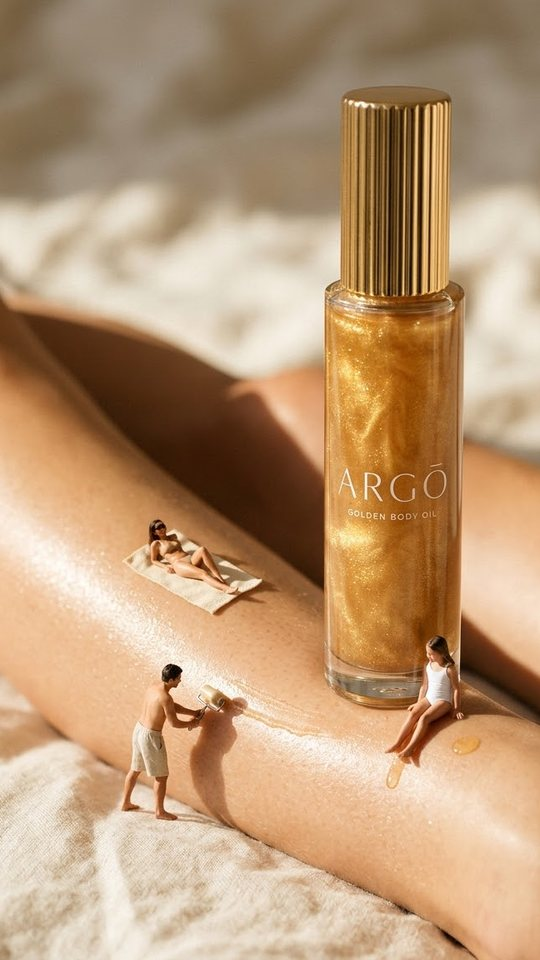
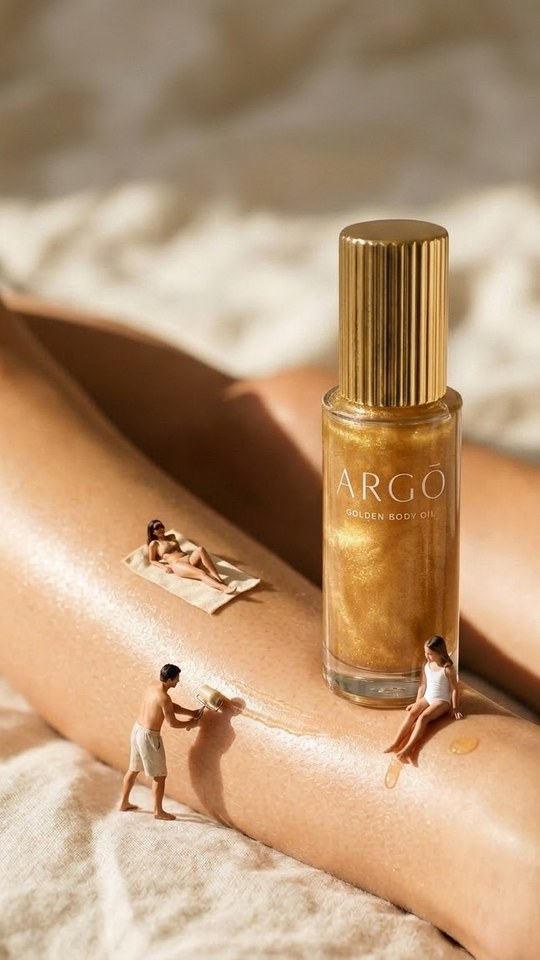
ARGŌ: shorter bottle key visual

diff --git a/index.html b/index.html
@@ -582,7 +582,7 @@ section.block.about{padding:64px 0 96px}
         <a class="cr" data-view data-video="assets/video/ltheanine.mp4" href="assets/video/ltheanine.mp4"><div class="cf"><video autoplay loop muted playsinline preload="metadata" poster="assets/img/ltheanine-poster.jpg" src="assets/video/ltheanine-loop.mp4" aria-label="L-Theanine drink spec ad"></video><span class="tg-k">Hook · Scene switch</span></div><b>L-Theanine drink</b><small>Spec ad, 9:16</small></a>
         <a class="cr" data-view data-video="assets/video/solene.mp4" href="assets/video/solene.mp4"><div class="cf"><video autoplay loop muted playsinline preload="metadata" poster="assets/img/solene-poster.jpg" src="assets/video/solene-loop.mp4" aria-label="SOLÈNE fig fragrance spec ad, AI-generated"></video><span class="tg-k">Spec ad · AI</span></div><b>SOLÈNE fragrance</b><small>Luxury spec ad, 16:9</small></a>
         <a class="cr" data-view data-video="assets/video/nur.mp4?v=2" href="assets/video/nur.mp4?v=2"><div class="cf"><video autoplay loop muted playsinline preload="metadata" poster="assets/img/nur-poster.jpg" src="assets/video/nur-loop.mp4?v=2" aria-label="NŪR barrier cream spec ad, AI-generated"></video><span class="tg-k">Spec ad · AI</span></div><b>NŪR barrier cream</b><small>De-influencing skincare spec ad</small></a>
-        <a class="cr" data-view href="work/argo/"><div class="cf"><img src="assets/img/argo-poster.jpg" width="540" height="960" loading="lazy" alt="ARGŌ golden body oil key visual: a tall gold shimmer oil bottle on a sun-kissed leg with tiny people using the skin as a golden beach"><span class="tg-k">Spec ad · AI</span></div><b>ARGŌ golden body oil</b><small>Miniature-world spec key visual</small></a>
+        <a class="cr" data-view href="work/argo/"><div class="cf"><img src="assets/img/argo-poster.jpg?v=2" width="540" height="960" loading="lazy" alt="ARGŌ golden body oil key visual: a tall gold shimmer oil bottle on a sun-kissed leg with tiny people using the skin as a golden beach"><span class="tg-k">Spec ad · AI</span></div><b>ARGŌ golden body oil</b><small>Miniature-world spec key visual</small></a>
         <a class="cr" data-view href="work/postroom/"><div class="cf"><video autoplay loop muted playsinline preload="metadata" poster="assets/img/postroom-poster.jpg" src="assets/video/postroom-loop.mp4" aria-label="AI promo for Postroom, the publishing tool she built"></video><span class="tg-k">Promo · My tool</span></div><b>Postroom promo</b><small>Ad for my own tool</small></a>
       </div>
       <div class="cr-nav"><button type="button" data-cr="-1" aria-label="Previous">&larr;</button><button type="button" data-cr="1" aria-label="Next">&rarr;</button></div>

diff --git a/work/argo/index.html b/work/argo/index.html
@@ -93,7 +93,7 @@ footer a{text-decoration:none;border-bottom:1px solid var(--gold);padding-bottom
     </section>
 
     <aside class="film">
-      <img src="../../assets/img/argo-web.jpg" width="696" height="864" alt="ARGŌ Golden Body Oil key visual: a tall slim gold shimmer oil bottle on a sun-kissed shin, with three tiny people using the skin as a golden beach">
+      <img src="../../assets/img/argo-web.jpg?v=2" width="696" height="864" alt="ARGŌ Golden Body Oil key visual: a tall slim gold shimmer oil bottle on a sun-kissed shin, with three tiny people using the skin as a golden beach">
       <div class="caption"><span>Key visual</span><span>4:5 · Gemini</span></div>
       <p class="note">AI-generated concept image. Fictional brand and product; “Spec ad · AI”.</p>
     </aside>
